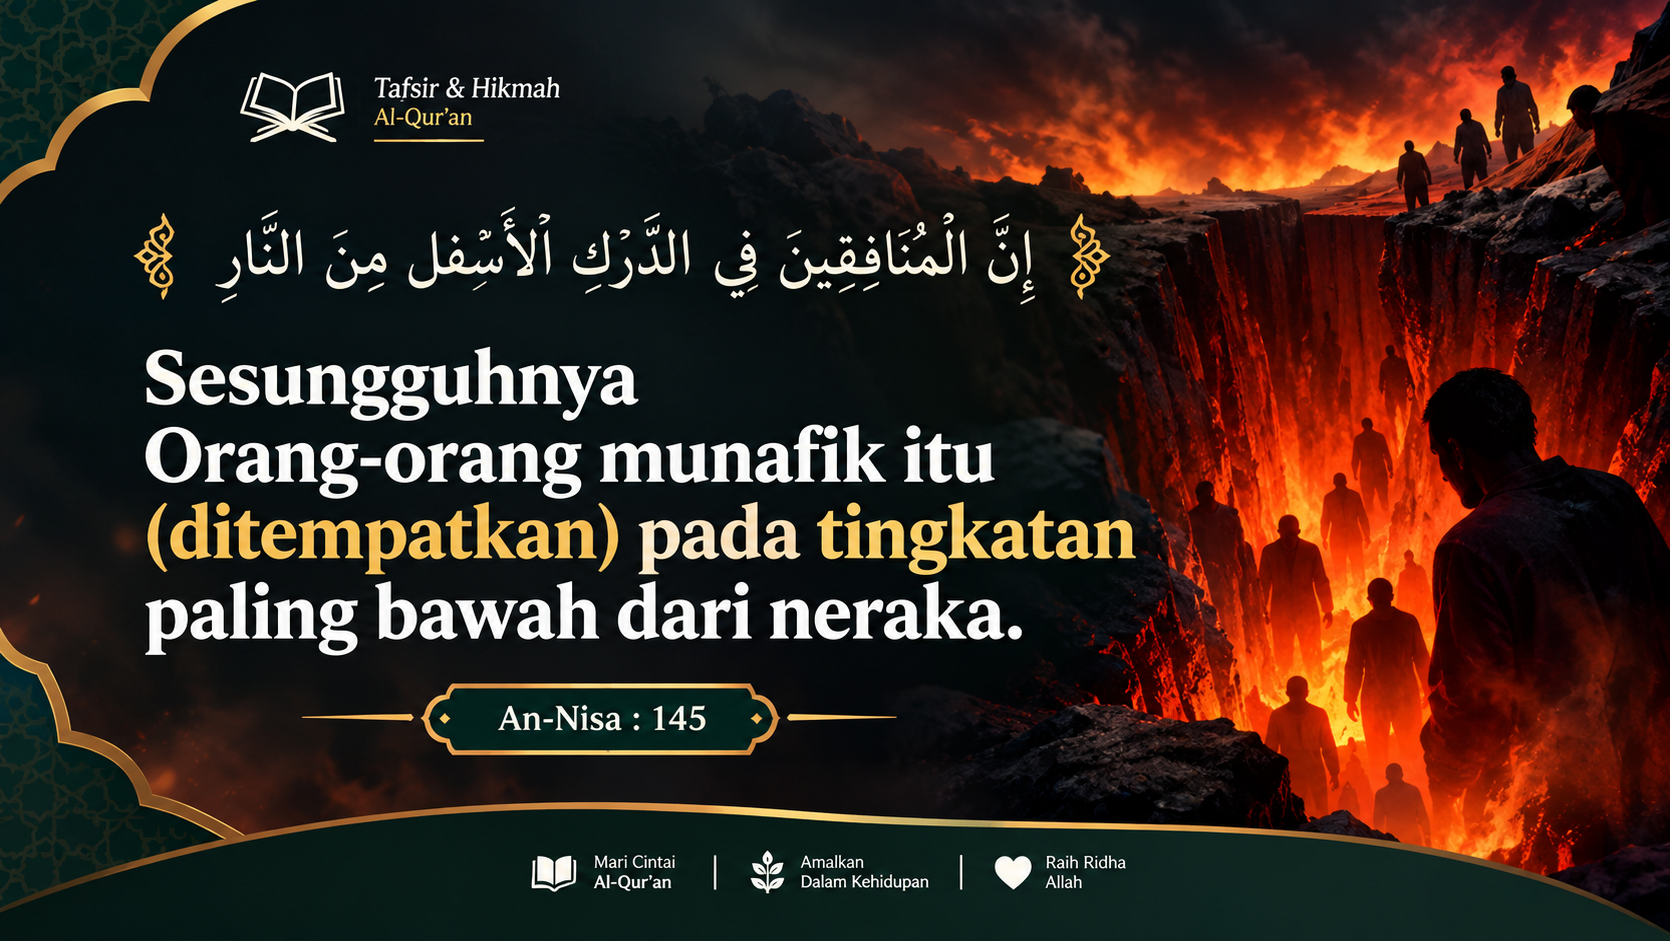
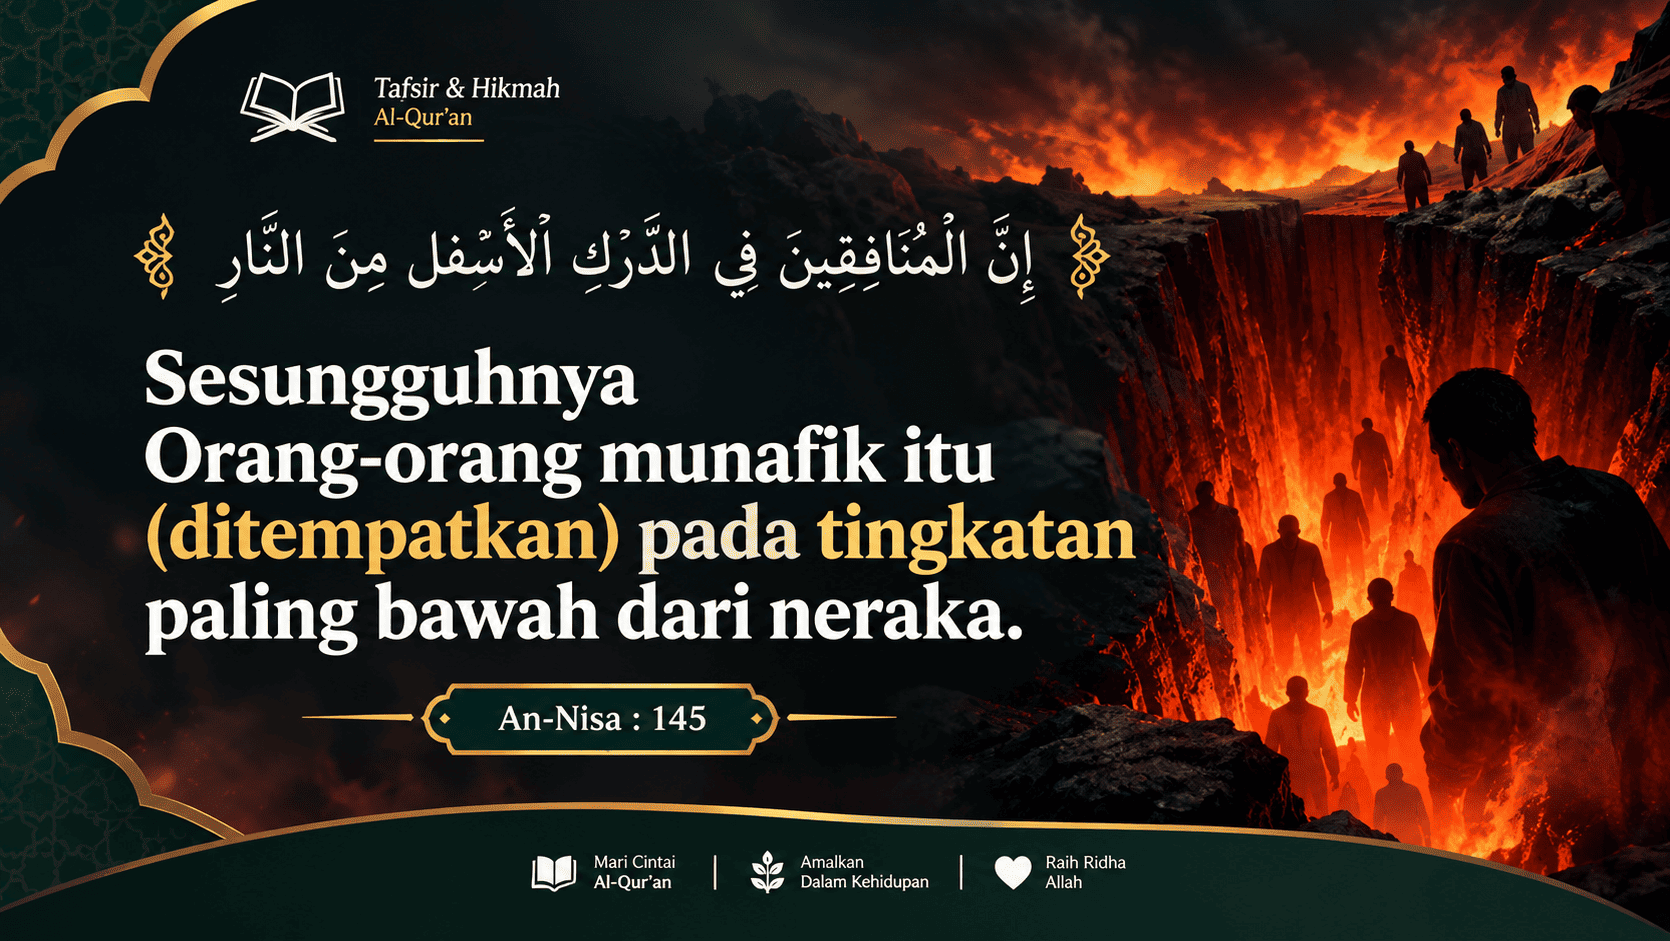
perbaikan size gambar

diff --git a/public/slides/slider2.html b/public/slides/slider2.html
@@ -49,7 +49,7 @@
 
 <script>
   var FOLDER = '/kumpulan-poster-nasehat-agama/';
-  var IMAGES = ['gambar10.png',  'gambar2.png', 'gambar3.png', 'gambar4.png', 'gambar5.png', 'gambar6.png', 'gambar8.png', 'gambar9.png', 'gambar11.png', 'gambar12.png']
+  var IMAGES = ['gambar10.png',  'gambar2.png', 'gambar3.png', 'gambar4.png', 'gambar5.png', 'gambar6.png', 'gambar8.png', 'gambar9.png', 'gambar11.png', 'gambar12.png','gambar13.png', 'gambar14.png']
     .map(function (f) { return FOLDER + f; });
   var INTERVAL_MS = 10000;
 
